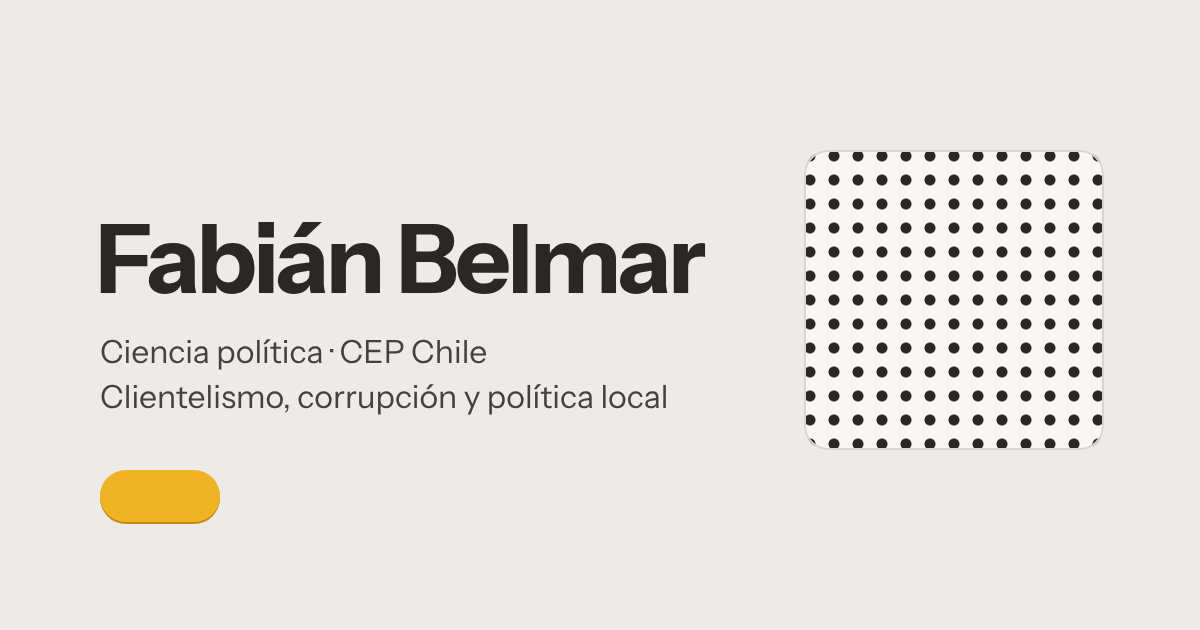
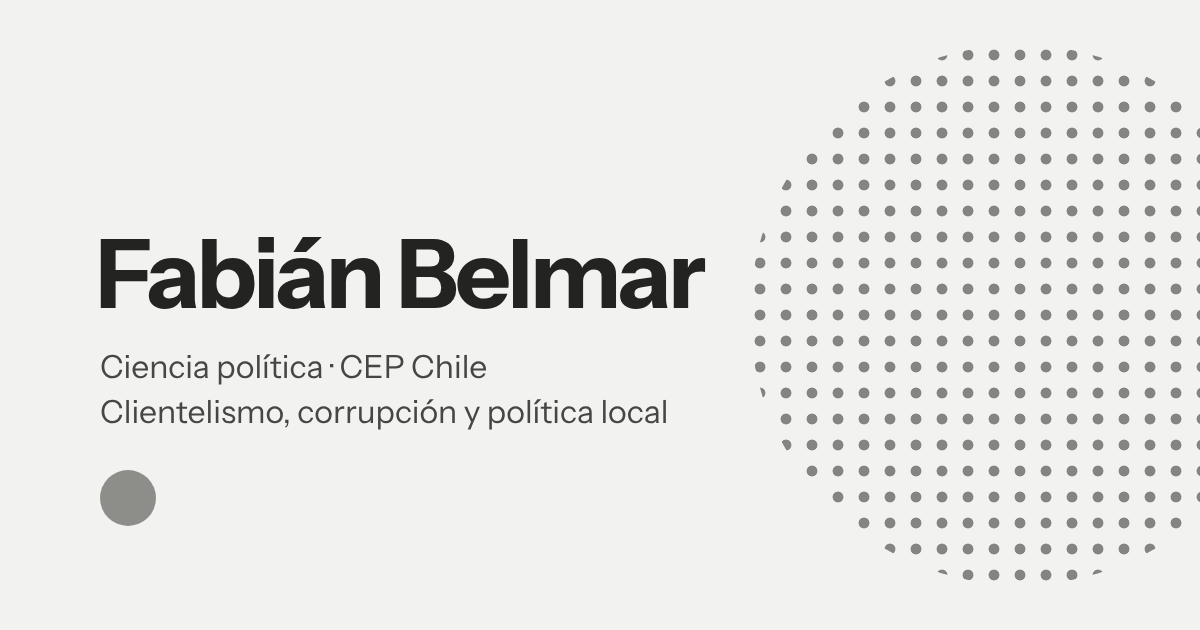
Tema Braun: versión radio T3 (Rams, 1958)
Reemplaza la variante ET66 por la elegida: cuerpo blanco, gris dial en la
pestaña activa y el gran parlante perforado detrás de la cabecera. Modo
oscuro, celular sin desplazamiento lateral e imagen para compartir a juego.

Claude-Session: https://claude.ai/code/session_01Has4dez2gHmg7y7ap7jRK9

diff --git a/styles.css b/styles.css
@@ -894,101 +894,106 @@ a:hover {
 }
 
 /* =============================================================
-   Lenguaje Braun (Rams, 1955-1995): gris hueso de los aparatos,
-   grafito, teclas de la calculadora ET66 con la tecla "=" amarilla
-   como único acento, y la rejilla perforada del parlante de la T3.
+   Lenguaje Braun: radio de bolsillo T3 (Rams, 1958).
+   Cuerpo blanco, gris dial y el gran parlante perforado como
+   único gesto. Todo lo demás queda quieto y ordenado.
    ============================================================= */
 :root {
-    --braun-yellow: #f0b323;
-    --braun-yellow-ink: #2a2826;
+    --dial: #8d8e8a;
+    --dial-edge: #6f706c;
+    --dial-ink: #ffffff;
+    --perf: #2b2b29;
     --key: #ffffff;
-    --key-edge: #cfcdc6;
-    --accent: #2a2826;
-    --accent-soft: #f7e3a8;
+    --key-edge: #d6d6d3;
+    --accent: #232322;
+    --accent-soft: #e3e3df;
     --q1: #3f7a3a;
     --q2: #3f6788;
     --q3: #a8681c;
     --q4: #a63d2e;
-    --color-text: #2a2826;
-    --color-text-secondary: #45423e;
-    --color-text-muted: #6f6c66;
-    --color-text-faint: #9a978f;
-    --color-text-body: #3a3733;
-    --color-bg: #ecebe7;
-    --color-surface: #f8f7f4;
-    --color-border: #d8d6cf;
-    --color-border-strong: #b9b6ad;
-    --color-link: #2a2826;
+    --color-text: #232322;
+    --color-text-secondary: #464643;
+    --color-text-muted: #6f6f6b;
+    --color-text-faint: #9b9b96;
+    --color-text-body: #353533;
+    --color-bg: #f2f2f0;
+    --color-surface: #ffffff;
+    --color-border: #e0e0dd;
+    --color-border-strong: #b4b4af;
+    --color-link: #232322;
 }
 [data-theme="dark"] {
-    --key: #3a3632;
-    --key-edge: #4a4540;
-    --accent: #f0b323;
-    --accent-soft: #4a3c18;
+    --dial: #b8b9b4;
+    --dial-edge: #d3d4cf;
+    --dial-ink: #1d1d1c;
+    --perf: #c9c9c4;
+    --key: #2f2f2d;
+    --key-edge: #444441;
+    --accent: #e6e6e2;
+    --accent-soft: #3f3f3c;
     --q1: #8cbf6e;
     --q2: #8fb3d1;
     --q3: #e0aa55;
     --q4: #e08a75;
-    --color-text: #edeae3;
-    --color-text-secondary: #cfcac0;
-    --color-text-muted: #a39e94;
-    --color-text-faint: #7a756c;
-    --color-text-body: #dcd7cd;
-    --color-bg: #24211f;
-    --color-surface: #2e2a27;
-    --color-border: #3b3733;
-    --color-border-strong: #57524b;
-    --color-link: #edeae3;
+    --color-text: #ecece8;
+    --color-text-secondary: #cdcdc8;
+    --color-text-muted: #a2a29d;
+    --color-text-faint: #7a7a75;
+    --color-text-body: #dadad5;
+    --color-bg: #1f1f1e;
+    --color-surface: #2a2a28;
+    --color-border: #363634;
+    --color-border-strong: #555551;
+    --color-link: #ecece8;
 }
 
 body {
     font-family: 'Instrument Sans', 'Helvetica Neue', Helvetica, Arial, sans-serif;
     font-feature-settings: "tnum" 1;
 }
-
 h1 { font-weight: 700; letter-spacing: -0.035em; }
 h2 { font-weight: 600; border-bottom-color: var(--color-border-strong); }
 
-/* Enlaces: grafito subrayado fino, como la rotulación de los mandos */
 a { text-decoration: underline; text-decoration-color: var(--color-border-strong); text-underline-offset: 3px; }
-a:hover { text-decoration-color: var(--braun-yellow); text-decoration-thickness: 2px; }
+a:hover { text-decoration-color: var(--color-text); }
 .social-links a, .info a, .site-footer a { text-decoration: none; }
 
-/* Rejilla del parlante T3 en lugar del mosaico */
+/* El parlante: un gran círculo perforado detrás de la cabecera */
+.content { position: relative; z-index: 0; }
+.inicio-grid { position: relative; }
 .mosaico {
-    width: 46px;
-    height: 46px;
-    border-radius: 6px;
-    background-color: var(--color-surface);
-    background-image: radial-gradient(circle, var(--color-text) 1.6px, transparent 1.9px);
-    background-size: 7px 7px;
+    position: absolute;
+    right: -110px;
+    top: -36px;
+    width: 280px;
+    height: 280px;
+    border-radius: 50%;
+    z-index: -1;
+    background-image: radial-gradient(circle, var(--perf) 2.4px, transparent 2.8px);
+    background-size: 13px 13px;
     background-position: center;
-    box-shadow: inset 0 0 0 1px var(--color-border);
-    margin-left: 0.2rem;
+    opacity: 0.5;
+    pointer-events: none;
 }
 .mosaico > i { display: none; }
 
-/* Avatar y perilla de tema */
 .avatar { box-shadow: 0 0 0 1px var(--color-border-strong); }
 .theme-toggle {
     width: 34px; height: 34px; padding: 0;
     border-radius: 50%;
     background: var(--key);
     border: 1px solid var(--key-edge);
-    box-shadow: 0 1px 0 var(--key-edge);
 }
 
-/* Panel lateral: como la placa frontal de un aparato */
 .inicio-recientes {
     background: var(--key);
     border: 1px solid var(--key-edge);
-    border-radius: 10px;
-    padding: 1rem 1.15rem;
+    border-radius: 28px;
+    padding: 1.1rem 1.35rem;
 }
 .inicio-recientes h3 { text-transform: none; letter-spacing: 0; font-size: 0.75rem; font-weight: 600; color: var(--color-text-muted); }
 .ultima-link { color: var(--color-text); }
 
-/* Buscador: ranura redondeada */
 .search-input {
     background: var(--key);
     border: 1px solid var(--key-edge);
@@ -996,14 +1001,10 @@ a:hover { text-decoration-color: var(--braun-yellow); text-decoration-thickness:
     padding-left: 1.1rem;
 }
 .search-input:focus { border-color: var(--color-text-muted); }
+.sort-toggle, .search-clear { top: 1.15rem; }
 
-/* Pestañas = teclas de la ET66; la activa es la tecla "=" amarilla */
-.tabs {
-    border-bottom: none;
-    gap: 0.45rem;
-    padding: 0.6rem 0 0.8rem;
-    background-color: var(--color-bg);
-}
+/* Pestañas: botones redondeados; la activa toma el gris del dial */
+.tabs { border-bottom: none; gap: 0.45rem; padding: 0.6rem 0 0.8rem; background-color: var(--color-bg); }
 .tab {
     border: 1px solid var(--key-edge);
     border-radius: 999px;
@@ -1011,32 +1012,31 @@ a:hover { text-decoration-color: var(--braun-yellow); text-decoration-thickness:
     color: var(--color-text-secondary);
     padding: 0.42rem 1rem;
     margin-bottom: 0;
-    box-shadow: 0 1px 0 var(--key-edge);
-    transition: background-color 0.15s, transform 0.08s, box-shadow 0.08s;
+    transition: background-color 0.15s, transform 0.08s;
 }
 .tab:hover { color: var(--color-text); border-color: var(--color-border-strong); }
-.tab:active { transform: translateY(1px); box-shadow: none; }
-.tab.active {
-    background: var(--braun-yellow);
-    border-color: #d99c12;
-    color: var(--braun-yellow-ink);
-    box-shadow: 0 1px 0 #c08a0f;
-}
-.tab.active .tab-count { color: var(--braun-yellow-ink); opacity: 0.7; }
+.tab:active { transform: translateY(1px); }
+.tab.active { background: var(--dial); border-color: var(--dial-edge); color: var(--dial-ink); }
+.tab.active .tab-count { color: var(--dial-ink); opacity: 0.75; }
 .tab:focus-visible { outline: 2px solid var(--color-text); outline-offset: 2px; }
 
-/* Publicaciones: filas sobre panel claro, sin cajas */
 .scrollable-list li:hover { background-color: var(--color-surface); outline-color: transparent; }
 .pub-quartile { border-radius: 4px; }
 .copy-cite { border-radius: 999px; }
 .search-highlight { background-color: var(--accent-soft); }
-.timeline-year-label::before { background-color: var(--braun-yellow); box-shadow: 0 0 0 1px #c08a0f; }
+.timeline-year-label::before { background-color: var(--dial); }
 .back-to-top { border-radius: 50%; background: var(--key); border-color: var(--key-edge); }
 .site-footer { border-top-color: var(--color-border-strong); }
 
+@media (max-width: 1024px) {
+    .mosaico { right: -90px; top: -50px; width: 200px; height: 200px; opacity: 0.35; }
+}
+@media (max-width: 768px) {
+    .mosaico { right: -70px; top: -60px; width: 170px; height: 170px; opacity: 0.25; }
+}
 @media (prefers-reduced-motion: reduce) {
     .tab, .back-to-top { transition: none; }
 }
 
-/* Iconos de ordenar/limpiar centrados en la ranura (no en todo el bloque del buscador) */
-.sort-toggle, .search-clear { top: 1.15rem; }
+/* El parlante puede asomar fuera del margen sin crear desplazamiento lateral */
+html, body { overflow-x: clip; }
